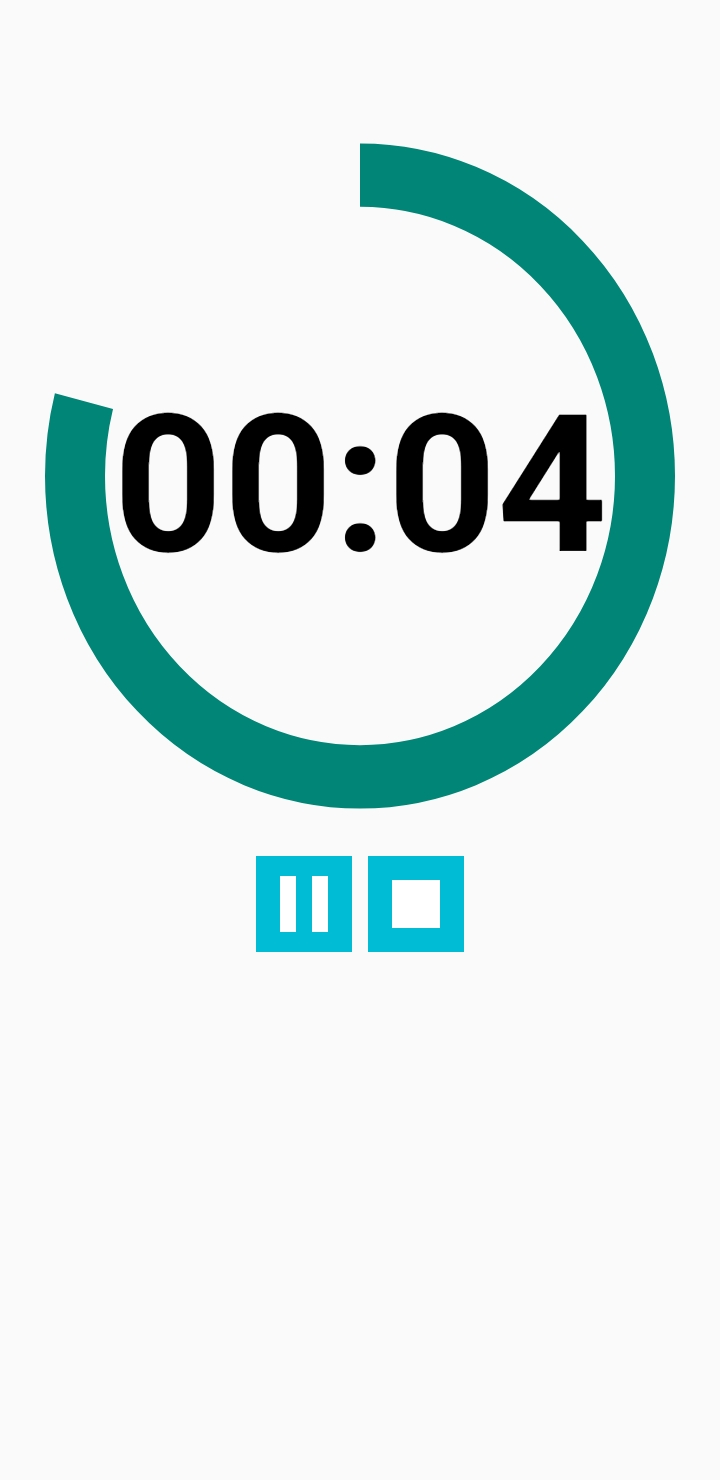
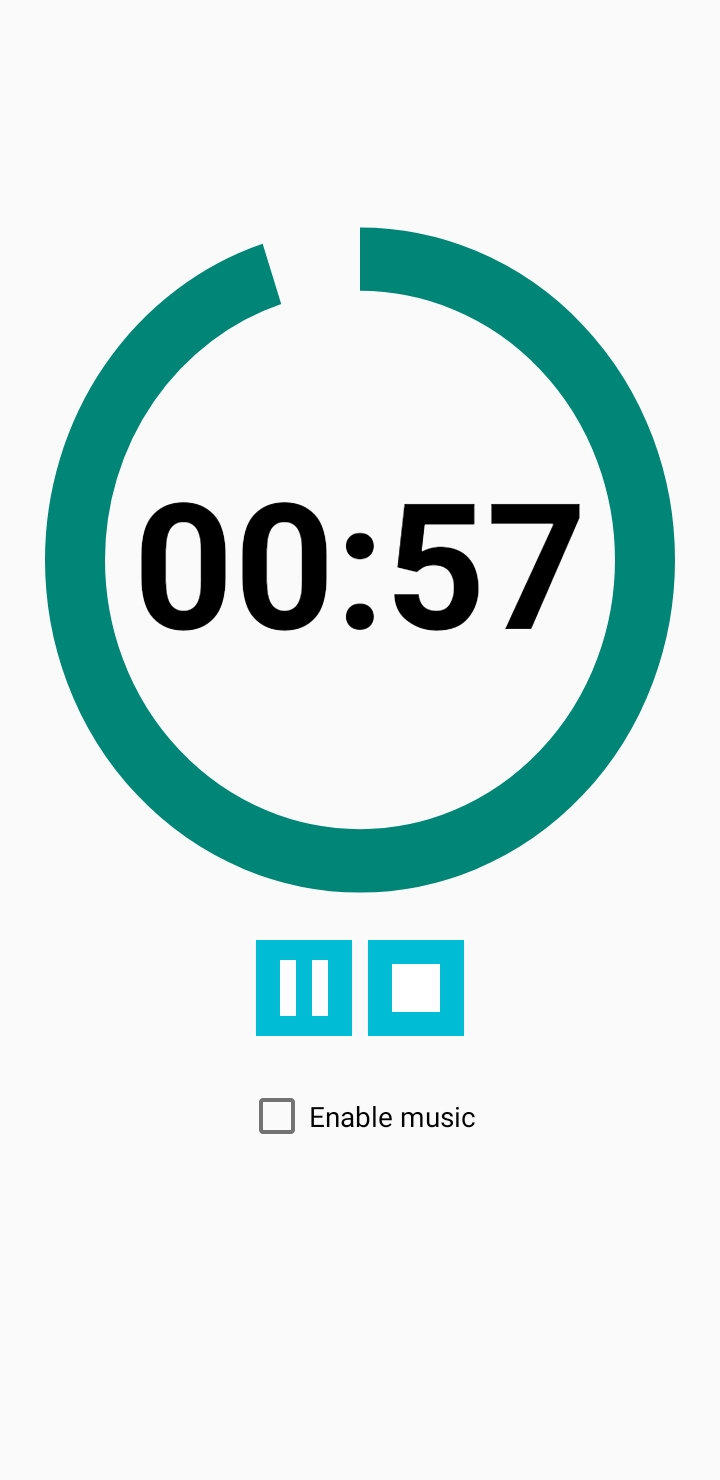
Add tablet images on larger screen resolutions.

Changed region(s): [[0.0611, 0.0932, 0.9472, 0.7149], [0.3972, 0.7459, 0.6417, 0.777], [0.3361, 0.7459, 0.3667, 0.777]]

diff --git a/app/src/main/assets/index.html b/app/src/main/assets/index.html
@@ -17,7 +17,10 @@
             <h2>Intro Screen</h2>
             <p>This is the intro screen for Bo Tree. </p>
 
-            <img src="images/main_screen.jpg" alt="Main screen of Bo Tree">
+            <picture>
+                <source media="(min-width:768px)" srcset="images/main_screen_tablet.png">
+                <img src="images/main_screen.jpg" alt="Main scree of Bo Tree">
+            </picture>
 
             <p>At a glance: the top section of the screen is the timer. You can configure it to be whatever time you want using the up and down arrows. The left arrows change the total minutes, indicated by it's presence near the minutes section of the
             time. The right arrows change the total seconds in 5 second increments. Press on the arrow pointing to the right will start the timer.</p>
@@ -31,8 +34,10 @@
             <h2>Reflections</h2>
             <p>This is where you can view your previous reflections.</p>
 
-            <img src="images/reflections.jpg" alt="Reflections">
-
+            <picture>
+                <source media="(min-width:768px)" srcset="images/reflections_tablet.png">
+                <img src="images/reflections.jpg" alt="Reflections">
+            </picture>
             <p>In this screen, you can see the previous reflections, the content of them, and the time in which they were created. Press the left or right buttons at the top changes the currently displayed view, so you can view your meditations in the past (the exception being viewing into the future, as there's little point in this). You can also swipe left and right to do this.</p>
 
             <p>Pressing on the floating action button (FAB) allows you to create new reflections: this can also be performed from the post meditation screen, which we'll describe later.</p>
@@ -42,7 +47,10 @@
             <h2>Settings</h2>
             <p>This is the settings screen, where you can configure aspects of the application. </p>
 
-            <img src="images/settings.jpg" alt="Settings">
+            <picture>
+                <source media="(min-width:768px)" srcset="images/settings_tablet.png">
+                <img src="images/settings.jpg" alt="Settings">
+            </picture>            
 
             <p>In this screen, you can configure the settings of the app. For instance, you can turn the notification on and off, depending on your preferences.</p>
 
@@ -53,7 +61,10 @@
             <h2>Timer</h2>
             <p>This is the timer screen that display the current progress of the meditation.</p>
 
-            <img src="images/timer.jpg" alt="Timer">
+            <picture>
+                <source media="(min-width:768px)" srcset="images/timer_tablet.png">
+                <img src="images/timer.jpg" alt="Timer">
+            </picture>
 
             <p>Pressing the Pause icon will pause the meditation. It will switch to a Play icon, which you can press to restart it. Pressing the Stop button will end the meditation. (Pressing your phones back icon will allow you to exit the meditation as if it never happened)</p>
         </div>
@@ -62,16 +73,25 @@
             <h2>Post Meditation</h2>
             <p>This is the screen that appears once the timer/meditation has completed.</p>
 
-            <img src="images/post meditation.jpg" alt="The post meditation screen">
+            <picture>
+                <source media="(min-width:768px)" srcset="images/post_meditation_tablet.png">
+                <img src="images/post_meditation.jpg" alt="The post meditation screen">
+            </picture>
 
-            <p>Pressing the End Session takes you back to the main screen. Pressing Add A Reflection takes you to the reflections screen, where you can add a reflection.</p>
+            <p>Pressing the End Session takes you back to the main screen. Pressing Add A Reflection takes you to the reflections screen, where you can add a reflection. Pressing the Share Button in the top-right corner will allow you to share the details of the days' meditation.</p>
+
+            <p>Pressing "Play Music" will play a soothing song for you to meditate to. At the end of a meditation, a bell chime will play to indicate of the completion of the timer.</p>
         </div>
 
         <div class="new-reflections" id="new-reflections">
             <h2>New Reflection</h2>
             <p>This is the screen where you can enter a new reflection.</p>
 
-            <img src="images/new_reflection.jpg" alt="The new reflection screen">
+            <picture>
+                <source media="(min-width:768px)" srcset="images/new_reflection_tablet.png">
+                <img src="images/new_reflection.jpg" alt="The new reflection screen">
+            </picture>
+
 
             Within the textbox, you can enter your reflection, and then press Save to save them.
         </div>

diff --git a/app/src/main/assets/style.css b/app/src/main/assets/style.css
@@ -2,6 +2,7 @@ html, body {
     background: #006064;
     color: #ffffff;
     font-family: "Roboto";
+    font-size: 1.125em;
 }
 
 .container img {
@@ -18,13 +19,13 @@ a:hover, a:active {
     color: #FFFFFF;
 }
 
-@media (min-width: 600px) {
+@media (min-width: 768px) {
     .container {
         width: 70%;
         margin: 0 auto;
     }
 
     .container img {
-        max-width: 40%;
+        max-width: 80%;
     }
 }
